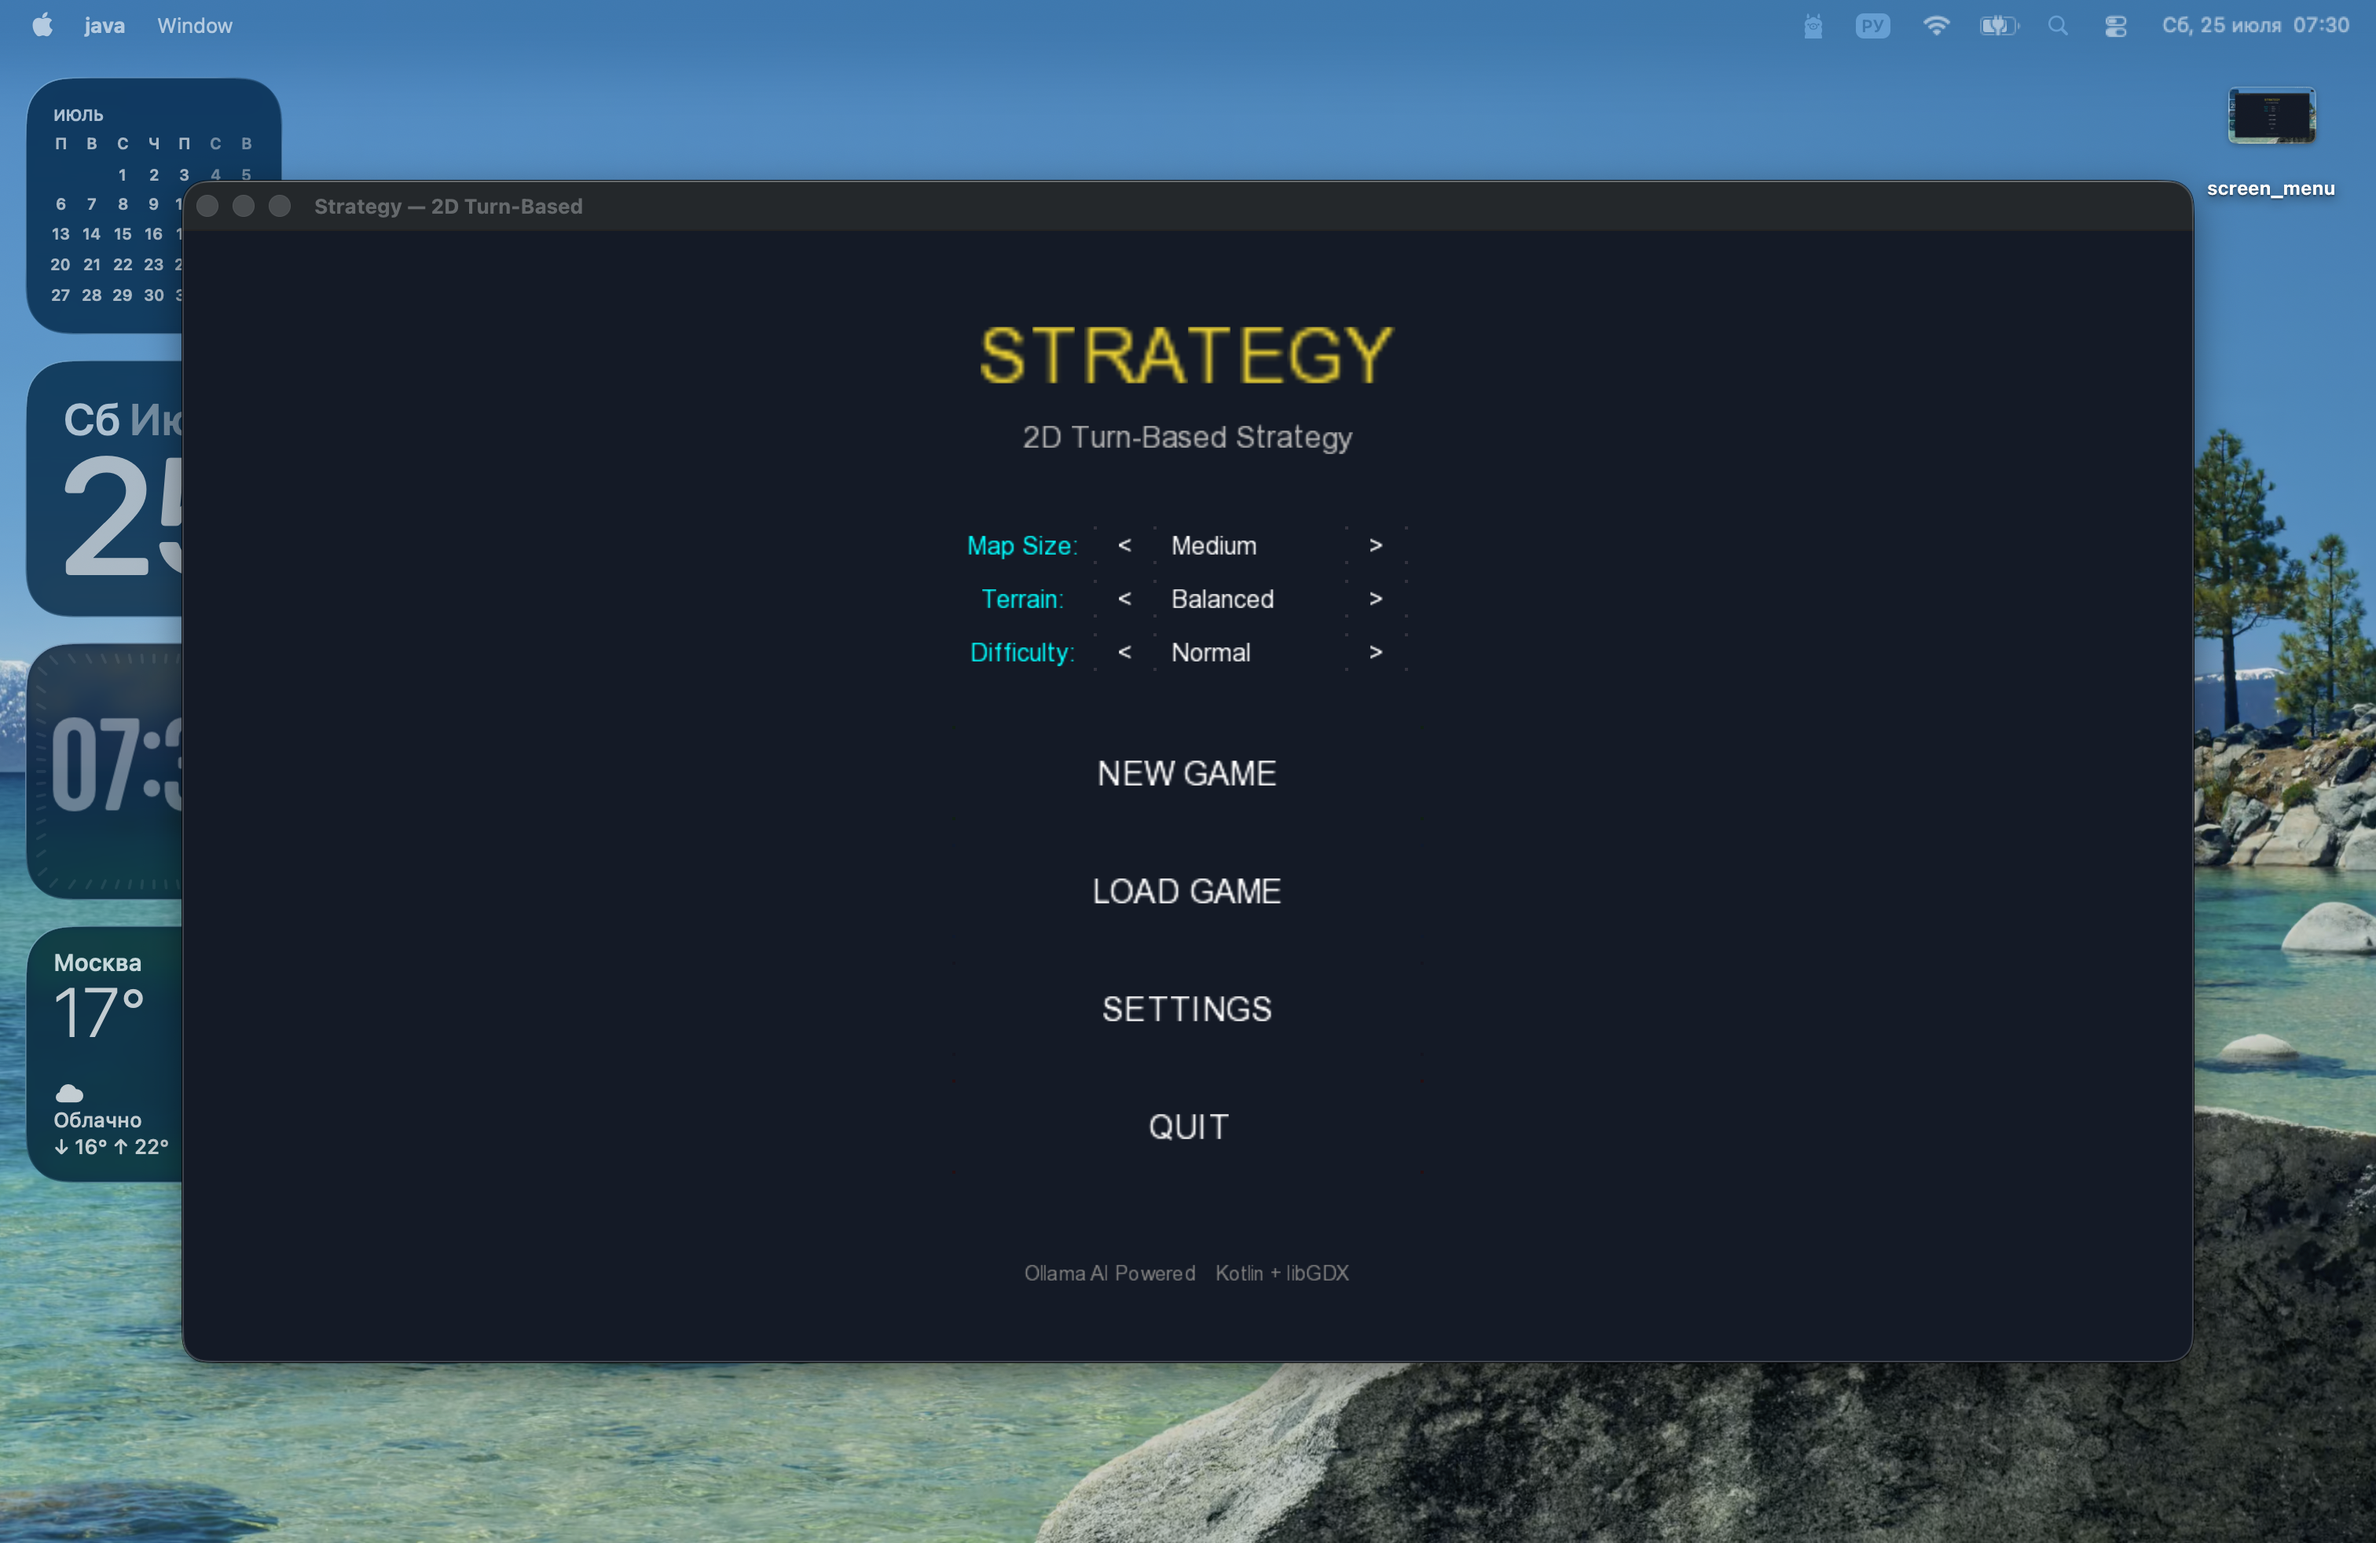
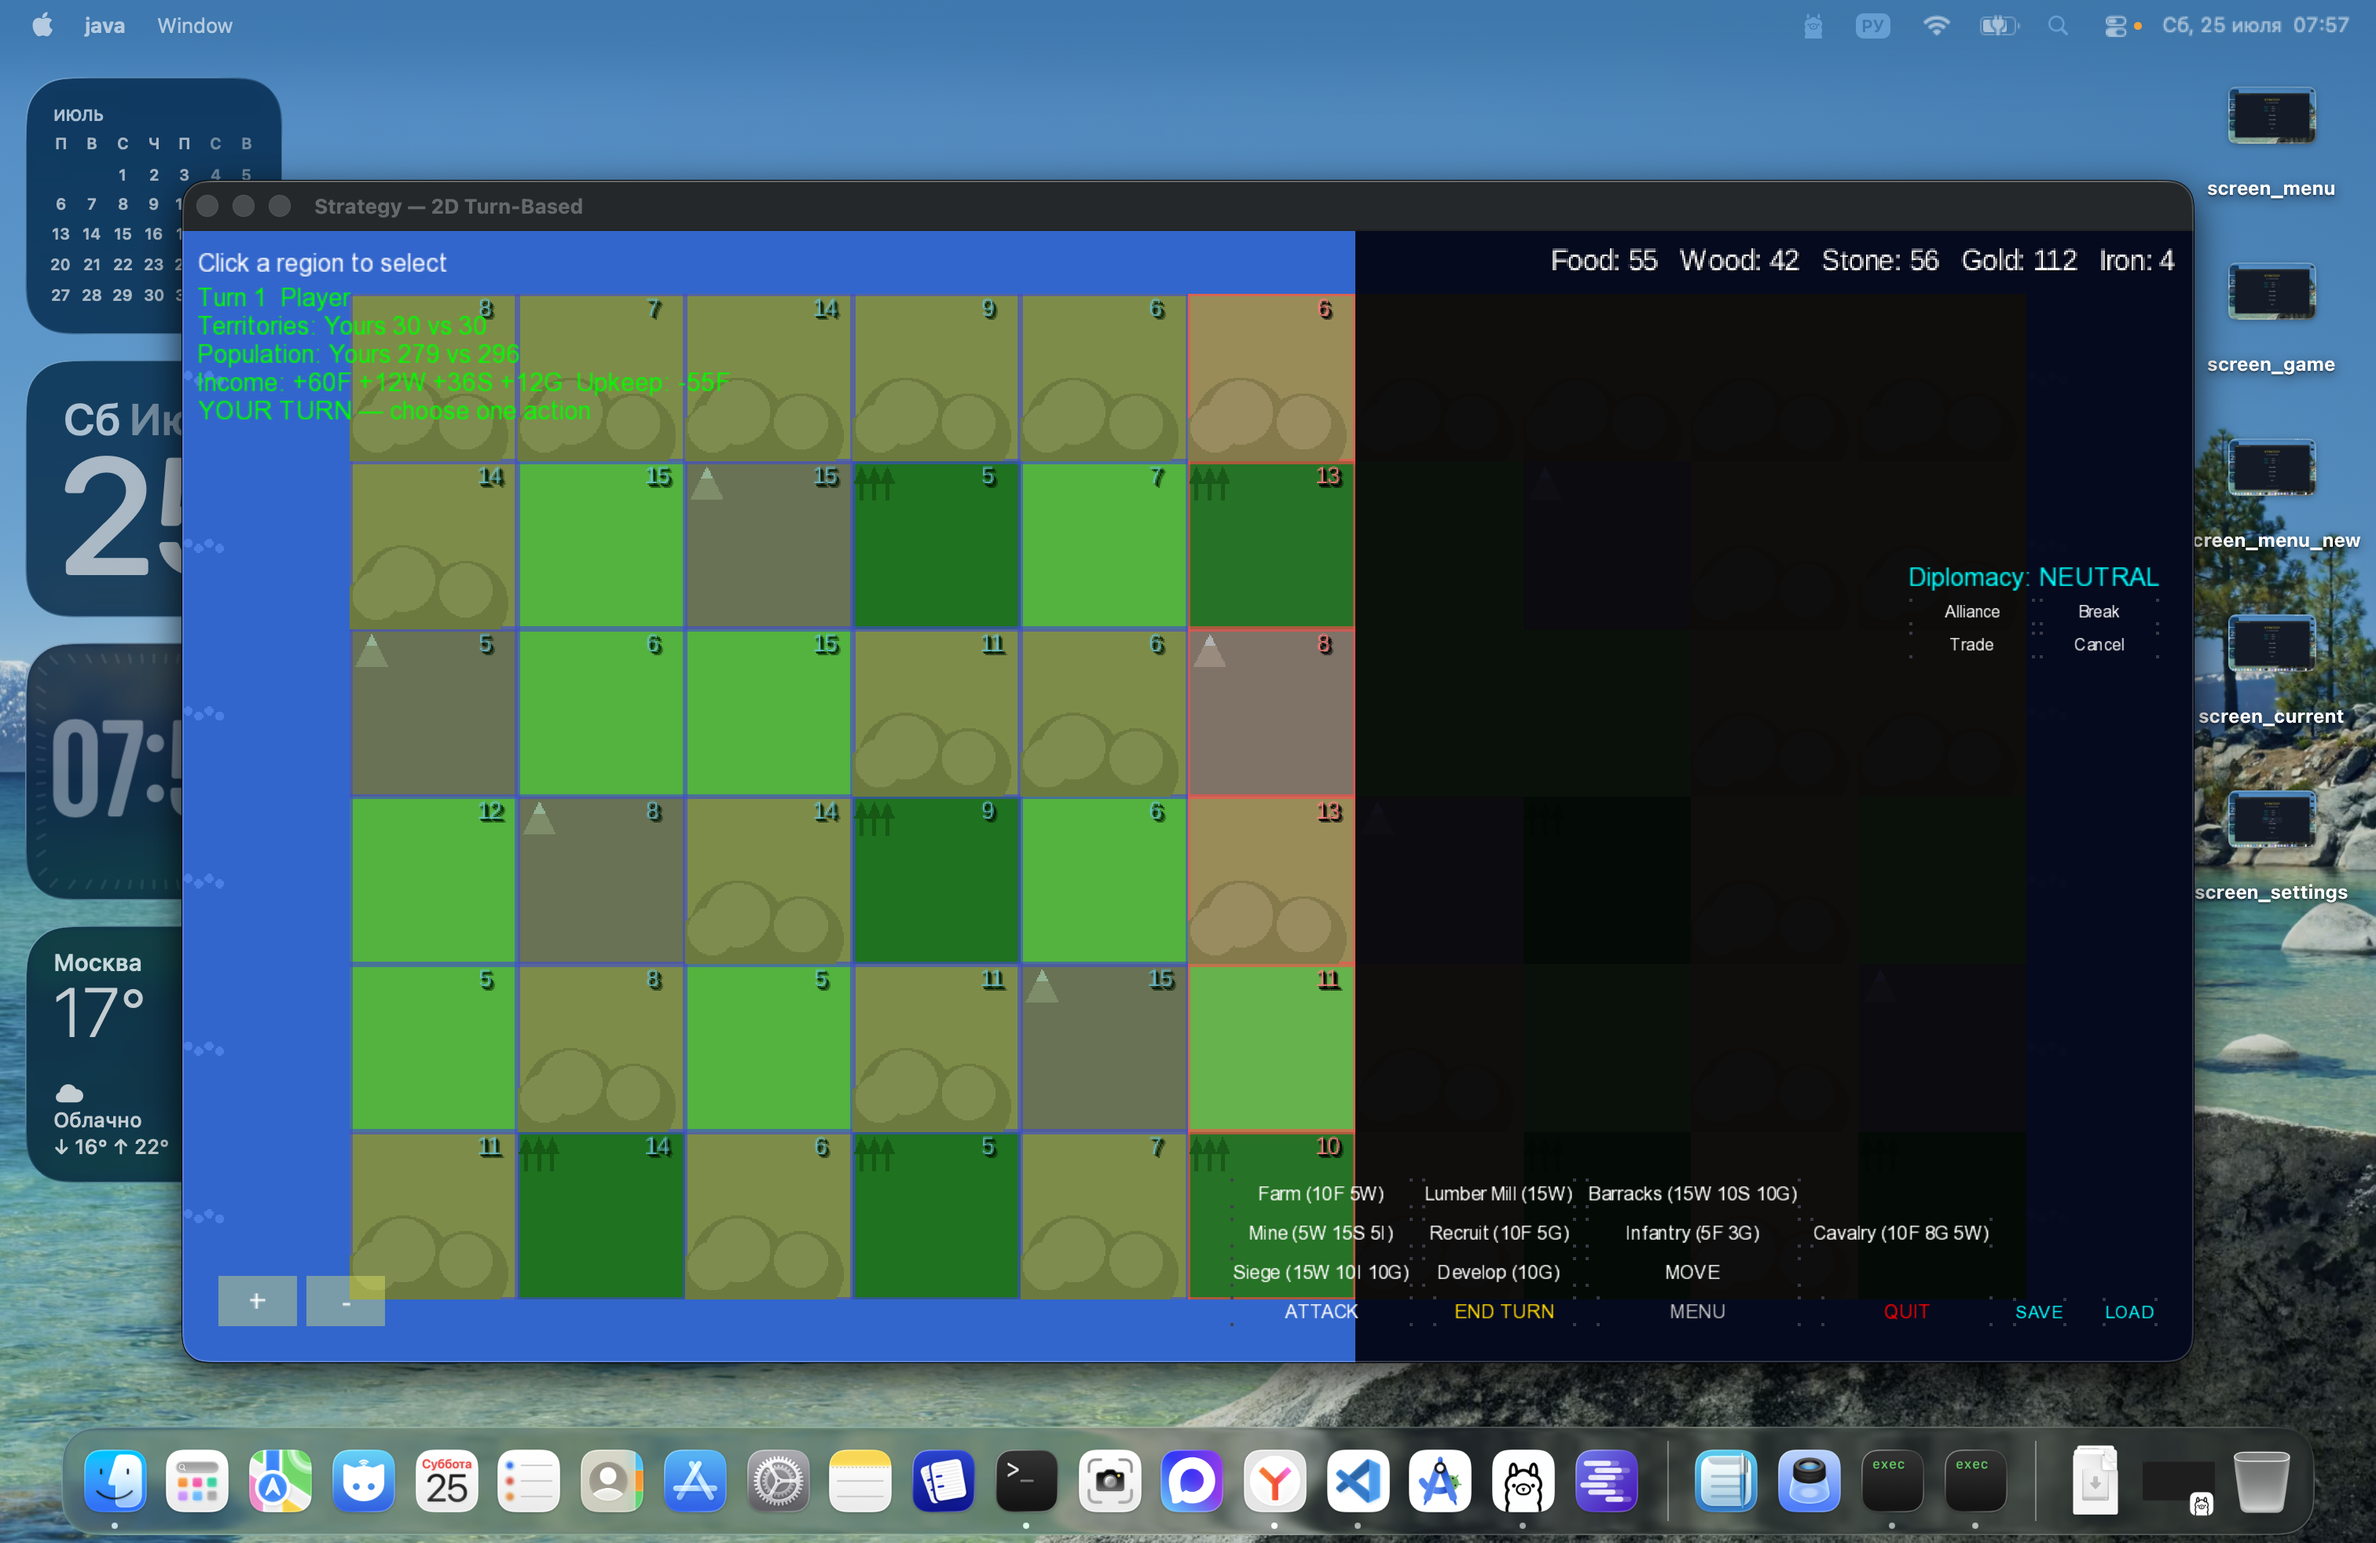
Add zoom buttons, quit confirmation dialog, darker window backgrounds, updated screenshots

diff --git a/desktop/src/main/kotlin/com/example/strategy/desktop/GameScreen.kt b/desktop/src/main/kotlin/com/example/strategy/desktop/GameScreen.kt
@@ -53,6 +53,8 @@ class GameScreen(private val game: StrategyGame) : ScreenAdapter() {
     private val maxZoom = 3.0f
     private val tileSize = 128f
     private val animManager = AnimationManager()
+    private var zoomHintTimer = 0f
+    private var zoomHintLabel: Label? = null
     private var soundManager: SoundManager? = null
     private var animTime = 0f
     private var aiPending = false
@@ -441,6 +443,43 @@ class GameScreen(private val game: StrategyGame) : ScreenAdapter() {
         })
         panel.add(menuBtn).fillX().padLeft(10f)
 
+        val quitBtn = TextButton(Locale.QUIT, skin)
+        quitBtn.label.setFontScale(0.75f); quitBtn.label.color = Color.RED
+        quitBtn.addListener(object : ClickListener() {
+            override fun clicked(event: InputEvent?, x: Float, y: Float) {
+                val win = Window("", skin)
+                win.isModal = true; win.isMovable = true; win.pad(16f)
+                win.add(Label(Locale.SAVE_QUESTION, skin)).colspan(2).row()
+                val saveBtn = TextButton(Locale.SAVE, skin)
+                saveBtn.label.setFontScale(0.9f); saveBtn.color = Color(0.3f, 0.6f, 0.3f, 1f)
+                saveBtn.addListener(object : ClickListener() {
+                    override fun clicked(event: InputEvent?, x: Float, y: Float) {
+                        win.remove()
+                        showSaveDialog()
+                        game.setScreen(MenuScreen(game))
+                    }
+                })
+                val noSaveBtn = TextButton(Locale.NO_SAVE, skin)
+                noSaveBtn.label.setFontScale(0.9f)
+                noSaveBtn.addListener(object : ClickListener() {
+                    override fun clicked(event: InputEvent?, x: Float, y: Float) {
+                        win.remove()
+                        game.setScreen(MenuScreen(game))
+                    }
+                })
+                val cancelBtn = TextButton(Locale.CANCEL, skin)
+                cancelBtn.label.setFontScale(0.9f)
+                cancelBtn.addListener(object : ClickListener() { override fun clicked(event: InputEvent?, x: Float, y: Float) { win.remove() } })
+                win.add(saveBtn).width(120f).padRight(8f)
+                win.add(noSaveBtn).width(120f).padRight(8f)
+                win.add(cancelBtn).width(120f)
+                win.pack()
+                win.setPosition(Gdx.graphics.width / 2f - win.width / 2f, Gdx.graphics.height / 2f - win.height / 2f)
+                stage.addActor(win)
+            }
+        })
+        panel.add(quitBtn).fillX().padLeft(10f)
+
         val saveBtn = TextButton("SAVE", skin)
         saveBtn.label.setFontScale(0.7f); saveBtn.label.color = Color.CYAN
         saveBtn.addListener(object : ClickListener() {
@@ -453,7 +492,7 @@ class GameScreen(private val game: StrategyGame) : ScreenAdapter() {
         loadBtn.addListener(object : ClickListener() {
             override fun clicked(event: InputEvent?, x: Float, y: Float) { showLoadDialog() }
         })
-        panel.add(loadBtn).fillX()
+        panel.add(loadBtn).fillX().padLeft(20f)
 
         val diploPanel = Table(skin).apply { right().top().pad(10f); defaults().pad(2f) }
         diplomacyLabel = Label(Locale.DIPLOMACY, skin)
@@ -478,9 +517,52 @@ class GameScreen(private val game: StrategyGame) : ScreenAdapter() {
             techPanel.add(b).fillX().colspan(2).row()
         }
 
+        val zoomPanel = Table(skin).apply { left().bottom().pad(10f); defaults().pad(3f) }
+        zoomHintLabel = Label("", skin)
+        zoomHintLabel!!.color = Color.LIGHT_GRAY
+        zoomHintLabel!!.setFontScale(0.7f)
+        zoomPanel.add(zoomHintLabel).colspan(2).row()
+
+        val zoomBgPix = Pixmap(16, 16, Pixmap.Format.RGBA8888).apply { setColor(1f, 1f, 0.4f, 0.35f); fill() }
+        val zoomBgTex = Texture(zoomBgPix); zoomBgPix.dispose()
+        val zoomUp = NinePatchDrawable(com.badlogic.gdx.graphics.g2d.NinePatch(zoomBgTex, 4, 4, 4, 4))
+        val zoomDownPix = Pixmap(16, 16, Pixmap.Format.RGBA8888).apply { setColor(1f, 1f, 0.4f, 0.55f); fill() }
+        val zoomDownTex = Texture(zoomDownPix); zoomDownPix.dispose()
+        val zoomDown = NinePatchDrawable(com.badlogic.gdx.graphics.g2d.NinePatch(zoomDownTex, 4, 4, 4, 4))
+        val zoomBtnStyle = TextButton.TextButtonStyle().apply {
+            font = skin.getFont("default-font")
+            fontColor = Color.WHITE
+            up = zoomUp
+            down = zoomDown
+        }
+        skin.add("zoom-btn", zoomBtnStyle)
+
+        val zoomInBtn = TextButton("+", zoomBtnStyle)
+        zoomInBtn.label.setFontScale(1.2f)
+        zoomInBtn.addListener(object : ClickListener() {
+            override fun clicked(event: InputEvent?, x: Float, y: Float) {
+                camera.zoom = (camera.zoom - 0.1f).coerceIn(minZoom, maxZoom)
+                camera.update()
+                zoomHintLabel?.setText(Locale.ZOOM_HINT)
+                zoomHintTimer = 2f
+            }
+        })
+        val zoomOutBtn = TextButton("-", zoomBtnStyle)
+        zoomOutBtn.label.setFontScale(1.2f)
+        zoomOutBtn.addListener(object : ClickListener() {
+            override fun clicked(event: InputEvent?, x: Float, y: Float) {
+                camera.zoom = (camera.zoom + 0.1f).coerceIn(minZoom, maxZoom)
+                camera.update()
+                zoomHintLabel?.setText(Locale.ZOOM_HINT)
+                zoomHintTimer = 2f
+            }
+        })
+        zoomPanel.add(zoomInBtn).width(50f)
+        zoomPanel.add(zoomOutBtn).width(50f)
+
         root.add().expandY()
         root.add(diploPanel).right().top().pad(10f).padTop(40f).row()
-        root.add(techPanel).left().bottom().pad(10f)
+        root.add(zoomPanel).left().bottom().pad(10f)
         root.add(panel).right().bottom().pad(10f)
         stage.addActor(root)
     }
@@ -804,6 +886,10 @@ class GameScreen(private val game: StrategyGame) : ScreenAdapter() {
             camera.update()
             batch.projectionMatrix = camera.combined
             animTime += delta
+            if (zoomHintTimer > 0f) {
+                zoomHintTimer -= delta
+                if (zoomHintTimer <= 0f) { zoomHintLabel?.setText(""); zoomHintTimer = 0f }
+            }
 
             batch.begin()
             for (region in state.map.regions) {
@@ -971,7 +1057,7 @@ class GameScreen(private val game: StrategyGame) : ScreenAdapter() {
         })
         s.add("default", Label.LabelStyle(font, Color.WHITE))
 
-        val windowBgPix = Pixmap(32, 32, Pixmap.Format.RGBA8888).apply { setColor(0.12f, 0.14f, 0.2f, 1f); fill() }
+        val windowBgPix = Pixmap(32, 32, Pixmap.Format.RGBA8888).apply { setColor(0.08f, 0.09f, 0.14f, 1f); fill() }
         val windowBgTex = Texture(windowBgPix); windowBgPix.dispose()
         val windowBg = NinePatchDrawable(com.badlogic.gdx.graphics.g2d.NinePatch(windowBgTex, 4, 4, 4, 4))
         val bf = font

diff --git a/desktop/src/main/kotlin/com/example/strategy/desktop/Locale.kt b/desktop/src/main/kotlin/com/example/strategy/desktop/Locale.kt
@@ -120,6 +120,18 @@ object Locale {
         Lang.EN -> "CANCEL"
     }
 
+    val SAVE_QUESTION get() = when(current) {
+        Lang.RU -> "Сохранить текущую игру?"
+        Lang.DE -> "Aktuelles Spiel speichern?"
+        Lang.EN -> "Save current game?"
+    }
+
+    val NO_SAVE get() = when(current) {
+        Lang.RU -> "НЕТ"
+        Lang.DE -> "NEIN"
+        Lang.EN -> "NO"
+    }
+
     val SAVE get() = when(current) {
         Lang.RU -> "СОХРАНИТЬ"
         Lang.DE -> "SPEICHERN"
@@ -318,6 +330,12 @@ object Locale {
         Lang.RU -> "Технологии"
         Lang.DE -> "Technologien"
         Lang.EN -> "Technologies"
+    }
+
+    val ZOOM_HINT get() = when(current) {
+        Lang.RU -> "Также можно скроллом мыши"
+        Lang.DE -> "Auch mit Mausrad möglich"
+        Lang.EN -> "Also works with scroll wheel"
     }
 
     // MapSize

diff --git a/README.md b/README.md
@@ -9,8 +9,17 @@ A prototype of a turn-based 2D strategy game inspired by "Imperialism 2" game, b
 ### Main Menu
 ![Main Menu](screenshots/menu.png)
 
+### Settings
+![Settings](screenshots/settings.png)
+
 ### Game
 ![Game Window](screenshots/game_window.png)
+
+### Load Dialog
+![Load Dialog](screenshots/load_dialog.png)
+
+### Save Dialog
+![Save Dialog](screenshots/save_dialog.png)
 
 ## Technologies
 
